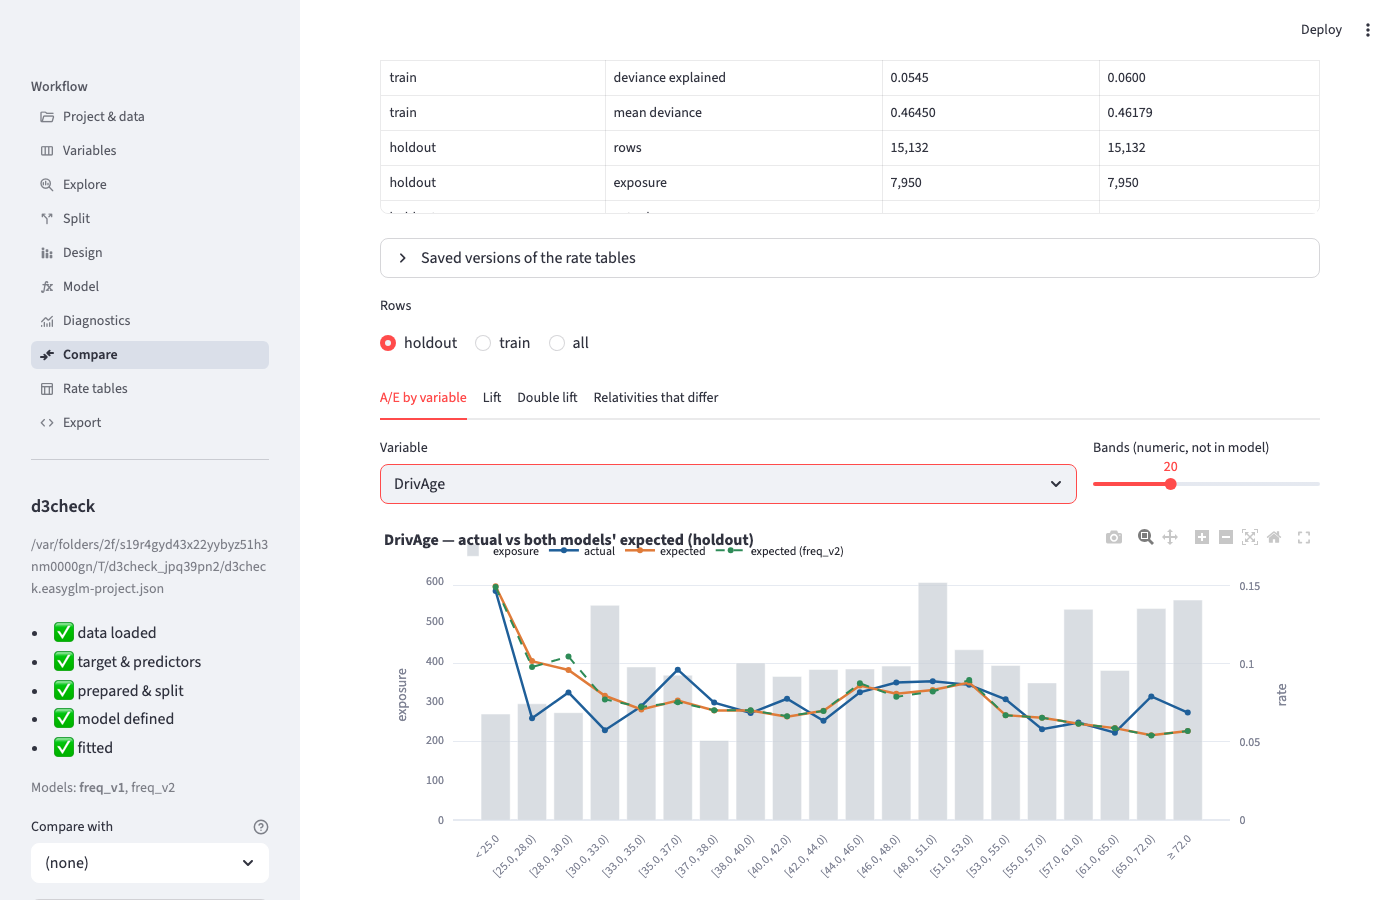
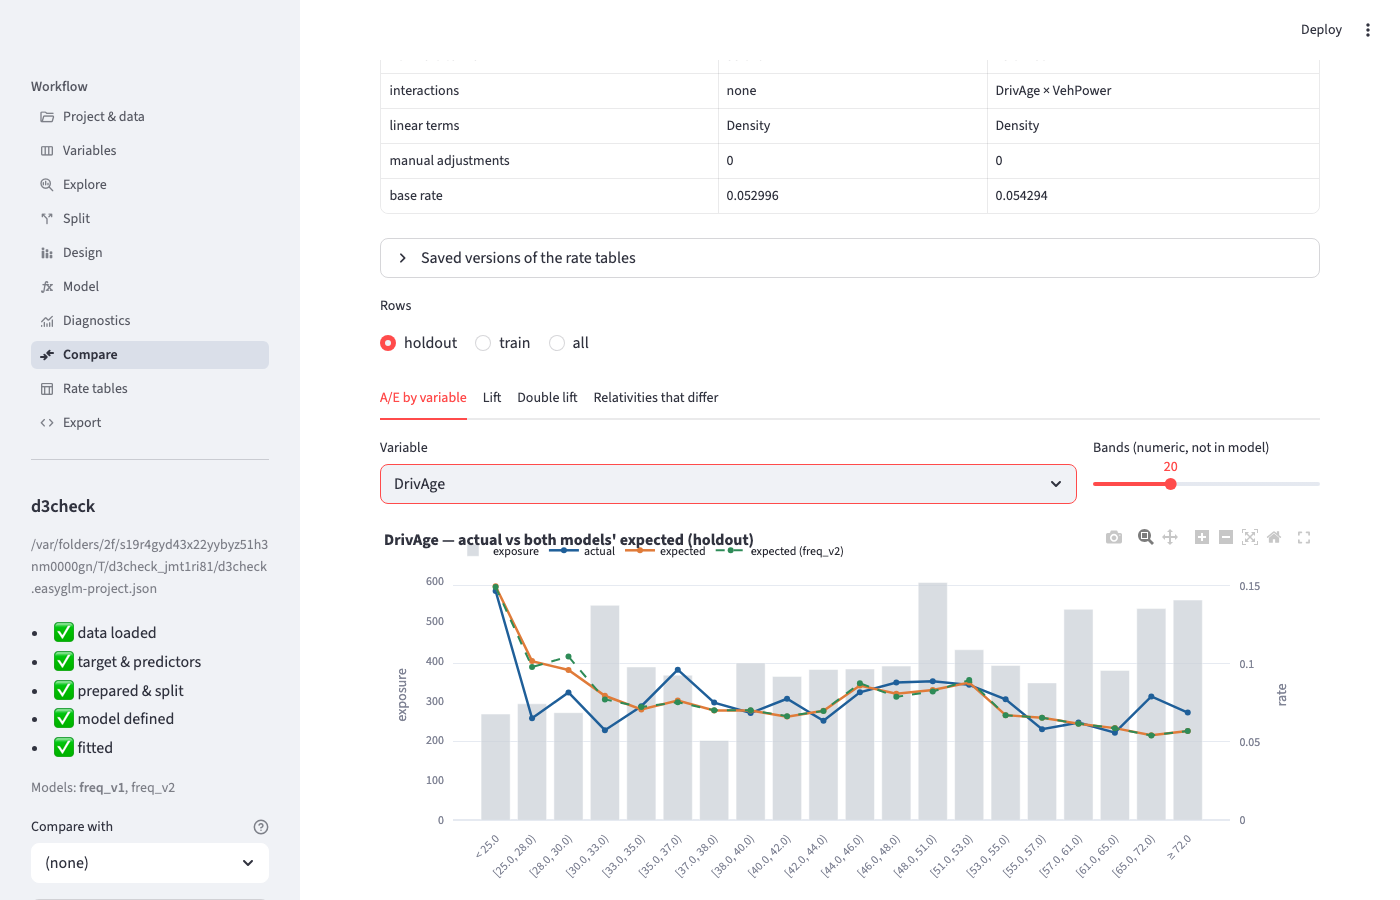
review B1/S8/S9: the check document now describes the models it actually builds
**B1 (blocking).** `DesignConfig` lives on the `Project`, not on a model, so
the check script's `{"design": {"variables": {"Density": {"kind": "linear"}}}}`
made Density piecewise-linear in *both* models — while the document told the
owner that Density was "banded in one and linear in the other" and pointed him
at an *only in* row that was not in the table. Since he cannot read the code,
that page is the whole specification of the feature, and the more damaging
reading was that a factor represented differently in the two models is safely
reported. The prose now says what is built (both models share the linear
Density design; the DrivAge × VehPower interaction is the only structural
difference), the *only in* example is the interaction, and the moved-knot
bullet describes the new common-grid behaviour with the one row it actually
produces. Regenerated with `--write`.

Also from B1: the metrics screenshot was cut off at the last *train* row while
the paragraph beside it says "holdout first" — both screenshots are now
anchored on the right element, and the reshaped table (S7) fits whole. The
worked example quotes the fixture's real numbers (level +2.4 %, largest band
−8.9 %, premium −6.7 %) and N16's sentence is in: a band's premium change is
its relativity change times the level change.

**S8.** README and CHANGELOG said "about 250 kB"; the French-motor report is
345–400 kB. Corrected.

**S9.** D4 also asks for the report "from the CLI". That is genuinely
[…]

diff --git a/scripts/checks/d3_d4_compare_report.py b/scripts/checks/d3_d4_compare_report.py
@@ -157,10 +157,11 @@ def _screens(out: Path) -> tuple[bool, str]:
 DOC_TEXT = """# D3 / D4 — comparing two models, and the report you can send
 
 *French-motor fixture (50,000 policies, 70/30 random split). Two frequency
-models on the same six factors: `freq_v1` uses plain banded (step) terms;
-`freq_v2` adds a DrivAge × VehPower interaction and treats Density as a
-straight line in log space; the report shown here is `freq_v2`'s, with `freq_v1`
-as its challenger. Screenshots regenerated by
+models on the same six factors, both treating Density as a straight line in log
+space (the band design belongs to the project, so every model shares it);
+`freq_v2` adds a DrivAge × VehPower interaction, which is the only structural
+difference between them. The report shown here is `freq_v2`'s, with `freq_v1` as
+its challenger. Screenshots regenerated by
 `scripts/checks/d3_d4_compare_report.py --write`.*
 
 ## Why this exists
@@ -241,18 +242,30 @@ counts as a move.
   sixth decimal; 1 % is the level at which a difference is worth a sentence.
   Raise it to 0.05 to see only the changes that would move a premium
   noticeably.
-* **Bands are matched by their label** — the same `[28.0, 30.0)` you see on the
-  rate table. If the challenger's knots moved, its bands do not line up with
-  the champion's, and the table says *band only in freq_v1* / *band only in
-  freq_v2* rather than inventing a comparison. That is the honest answer: the
-  two models cut the factor differently and their relativities are not
-  comparable band by band.
-* A factor one model has and the other does not (here Density is linear in one
-  and banded in the other, and the interaction exists only in `freq_v2`) is
-  listed once as *only in …*.
-* **`(base rate)`** is compared too. Two models can have identical relativities
-  and still charge different premiums because their base rate differs; that row
-  is the overall level.
+* **Numeric factors are compared on a common grid.** For an age or a density
+  the tool takes the union of both models' band edges and evaluates both rate
+  structures on it. That means a challenger whose knots moved — or that treats
+  the factor as a straight line while the champion bands it — is still compared
+  like for like, band of the common grid by band of the common grid. Move one
+  knot from 28 to 28.5 and you get **one** row, `[28.0, 28.5)`: exactly the
+  ages that would be charged differently, not four rows of bands that do not
+  line up. When the two models represent a factor differently the `kind` column
+  says so (`numeric → linear`), so no row can be mistaken for two designs that
+  agree.
+* **Levels and interaction cells are matched by name** — `Alsace`, or
+  `[28.0, 30.0) | [7.0, 8.0)`. A level or a cell only one model has is listed as
+  *band only in …*.
+* A whole factor one model has and the other does not (here the
+  DrivAge × VehPower interaction, which exists only in `freq_v2`) is listed once
+  as *only in …*.
+* **The overall level is shown on its own, above the table.** Two models can
+  have identical relativities and still charge different premiums because their
+  base rate differs, so the base rate is reported both as a headline
+  ("Overall level (base rate): +2.4 %") and as a row of the table. **A band's
+  premium change is its relativity change multiplied by the level change** — in
+  this fixture the level is **+2.4 %** while the largest band move is
+  **−8.9 %** (DrivAge `[28.0, 30.0)`), so the premium for those drivers falls
+  by about **6.7 %**, not 8.9 %. Read the two together.
 
 Two identical models give an **empty** table — that is the test, and it is what
 you should see if you compare a model with itself.
@@ -289,7 +302,9 @@ What is in it:
 
 * **Lift and Gini** on both sets of rows.
 * **The comparison section**, when a challenger was chosen: the double lift and
-  the same relativity-difference table.
+  the same relativity-difference table, with the overall level above it. If the
+  challenger cannot be scored on these rows (a column it needs is gone) the
+  report says so in that section's place rather than quietly leaving it out.
 
 ![report comparison](img/d4_report_compare.png)
 
@@ -304,7 +319,12 @@ of five megabytes. Hovering a band or a heatmap cell still shows its numbers.
 ## What was checked
 
 * Two identical models produce an empty difference table; a single edited
-  relativity produces exactly one row, with the right size of change.
+  relativity produces exactly one row, with the right size of change; two bands
+  both floored to zero are not a change.
+* Moving one knot produces exactly the sliver of the factor that would be
+  charged differently; the same factor banded in one model and straight in the
+  other is compared on the common grid and labelled `numeric → linear`.
+* Swapping champion and challenger swaps every status and negates every number.
 * A model with a factor the other does not have lists that factor once.
 * The report contains no link to anything outside itself, opens in a browser
   with no errors, has one section per rating factor, and only carries the
@@ -314,18 +334,21 @@ of five megabytes. Hovering a band or a heatmap cell still shows its numbers.
 
 1. **Tolerance.** The difference table defaults to 1 % (|log ratio| > 0.01).
    Is that the level at which you would want a band listed, or would you rather
-   start at 5 % and drill down?
-2. **Base rate row.** We list the base rate as a row of the difference table so
-   a pure level change cannot hide. Would you rather see it as a separate
-   headline ("overall level: +2.4 %")?
+   start at 5 % and drill down? The box on the page changes it in one keystroke,
+   so this is only about the default.
+2. **The overall level.** It is now shown both ways — as the headline above the
+   table and as a `(base rate)` row inside it. Is the headline wording right, or
+   would you rather see the *premium* change per band (relativity × level)
+   worked out for you in a column of its own?
 3. **Report audience.** The report currently leads with the data and the model
    configuration and puts the coefficients in an appendix. For a filing, would
    you want a one-page summary at the front (headline metrics, the rate tables,
    nothing else) with everything else after it?
-4. **Moved knots.** When the challenger's bands do not line up with the
-   champion's we refuse to compare them and say so. The alternative is to
-   compare the two curves at a set of common points (say every band edge of
-   either model). Which would you rather have?
+4. **The common grid.** Numeric factors are compared on the union of both
+   models' band edges, so a moved knot shows the exact range of ages (or
+   densities) that would be charged differently. For a piecewise-linear term we
+   read each interval at its **start**. Is that the number you would want, or
+   the exposure-weighted average across the interval?
 """
 
 

diff --git a/scripts/checks/_d3_screens.py b/scripts/checks/_d3_screens.py
@@ -79,14 +79,17 @@ with sync_playwright() as p:
     # -- Compare page
     nav(pg, "Compare")
     main = pg.locator('[data-testid="stMain"]')
-    shot(pg, "d3_compare_metrics")
+    # anchor on the metrics table so the holdout rows are in frame, not cut off
+    shot(pg, "d3_compare_metrics", pg.get_by_text("Metrics side by side").first)
     pg.get_by_role("tab", name="A/E by variable", exact=True).click()
     settle(pg)
     select(pg, "Variable", "DrivAge")
     shot(pg, "d3_compare_ae", pg.locator(".js-plotly-plot").first)
     pg.get_by_role("tab", name="Relativities that differ", exact=True).click()
     settle(pg)
-    shot(pg, "d3_compare_diff", pg.get_by_test_id("stDataFrame").first)
+    # anchor on the tolerance box so the headline, the caption and the table
+    # are all in frame (there are three grids on the page now)
+    shot(pg, "d3_compare_diff", pg.get_by_text("Report a band when").first)
     assert "row(s)" in main.inner_text(), main.inner_text()[:400]
 
     # -- the report, downloaded from the Export page and opened in the browser

diff --git a/docs/checks/d3-d4-compare-report.md b/docs/checks/d3-d4-compare-report.md
@@ -1,10 +1,11 @@
 # D3 / D4 — comparing two models, and the report you can send
 
 *French-motor fixture (50,000 policies, 70/30 random split). Two frequency
-models on the same six factors: `freq_v1` uses plain banded (step) terms;
-`freq_v2` adds a DrivAge × VehPower interaction and treats Density as a
-straight line in log space; the report shown here is `freq_v2`'s, with `freq_v1`
-as its challenger. Screenshots regenerated by
+models on the same six factors, both treating Density as a straight line in log
+space (the band design belongs to the project, so every model shares it);
+`freq_v2` adds a DrivAge × VehPower interaction, which is the only structural
+difference between them. The report shown here is `freq_v2`'s, with `freq_v1` as
+its challenger. Screenshots regenerated by
 `scripts/checks/d3_d4_compare_report.py --write`.*
 
 ## Why this exists
@@ -85,18 +86,30 @@ counts as a move.
   sixth decimal; 1 % is the level at which a difference is worth a sentence.
   Raise it to 0.05 to see only the changes that would move a premium
   noticeably.
-* **Bands are matched by their label** — the same `[28.0, 30.0)` you see on the
-  rate table. If the challenger's knots moved, its bands do not line up with
-  the champion's, and the table says *band only in freq_v1* / *band only in
-  freq_v2* rather than inventing a comparison. That is the honest answer: the
-  two models cut the factor differently and their relativities are not
-  comparable band by band.
-* A factor one model has and the other does not (here Density is linear in one
-  and banded in the other, and the interaction exists only in `freq_v2`) is
-  listed once as *only in …*.
-* **`(base rate)`** is compared too. Two models can have identical relativities
-  and still charge different premiums because their base rate differs; that row
-  is the overall level.
+* **Numeric factors are compared on a common grid.** For an age or a density
+  the tool takes the union of both models' band edges and evaluates both rate
+  structures on it. That means a challenger whose knots moved — or that treats
+  the factor as a straight line while the champion bands it — is still compared
+  like for like, band of the common grid by band of the common grid. Move one
+  knot from 28 to 28.5 and you get **one** row, `[28.0, 28.5)`: exactly the
+  ages that would be charged differently, not four rows of bands that do not
+  line up. When the two models represent a factor differently the `kind` column
+  says so (`numeric → linear`), so no row can be mistaken for two designs that
+  agree.
+* **Levels and interaction cells are matched by name** — `Alsace`, or
+  `[28.0, 30.0) | [7.0, 8.0)`. A level or a cell only one model has is listed as
+  *band only in …*.
+* A whole factor one model has and the other does not (here the
+  DrivAge × VehPower interaction, which exists only in `freq_v2`) is listed once
+  as *only in …*.
+* **The overall level is shown on its own, above the table.** Two models can
+  have identical relativities and still charge different premiums because their
+  base rate differs, so the base rate is reported both as a headline
+  ("Overall level (base rate): +2.4 %") and as a row of the table. **A band's
+  premium change is its relativity change multiplied by the level change** — in
+  this fixture the level is **+2.4 %** while the largest band move is
+  **−8.9 %** (DrivAge `[28.0, 30.0)`), so the premium for those drivers falls
+  by about **6.7 %**, not 8.9 %. Read the two together.
 
 Two identical models give an **empty** table — that is the test, and it is what
 you should see if you compare a model with itself.
@@ -133,7 +146,9 @@ What is in it:
 
 * **Lift and Gini** on both sets of rows.
 * **The comparison section**, when a challenger was chosen: the double lift and
-  the same relativity-difference table.
+  the same relativity-difference table, with the overall level above it. If the
+  challenger cannot be scored on these rows (a column it needs is gone) the
+  report says so in that section's place rather than quietly leaving it out.
 
 ![report comparison](img/d4_report_compare.png)
 
@@ -148,7 +163,12 @@ of five megabytes. Hovering a band or a heatmap cell still shows its numbers.
 ## What was checked
 
 * Two identical models produce an empty difference table; a single edited
-  relativity produces exactly one row, with the right size of change.
+  relativity produces exactly one row, with the right size of change; two bands
+  both floored to zero are not a change.
+* Moving one knot produces exactly the sliver of the factor that would be
+  charged differently; the same factor banded in one model and straight in the
+  other is compared on the common grid and labelled `numeric → linear`.
+* Swapping champion and challenger swaps every status and negates every number.
 * A model with a factor the other does not have lists that factor once.
 * The report contains no link to anything outside itself, opens in a browser
   with no errors, has one section per rating factor, and only carries the
@@ -158,15 +178,18 @@ of five megabytes. Hovering a band or a heatmap cell still shows its numbers.
 
 1. **Tolerance.** The difference table defaults to 1 % (|log ratio| > 0.01).
    Is that the level at which you would want a band listed, or would you rather
-   start at 5 % and drill down?
-2. **Base rate row.** We list the base rate as a row of the difference table so
-   a pure level change cannot hide. Would you rather see it as a separate
-   headline ("overall level: +2.4 %")?
+   start at 5 % and drill down? The box on the page changes it in one keystroke,
+   so this is only about the default.
+2. **The overall level.** It is now shown both ways — as the headline above the
+   table and as a `(base rate)` row inside it. Is the headline wording right, or
+   would you rather see the *premium* change per band (relativity × level)
+   worked out for you in a column of its own?
 3. **Report audience.** The report currently leads with the data and the model
    configuration and puts the coefficients in an appendix. For a filing, would
    you want a one-page summary at the front (headline metrics, the rate tables,
    nothing else) with everything else after it?
-4. **Moved knots.** When the challenger's bands do not line up with the
-   champion's we refuse to compare them and say so. The alternative is to
-   compare the two curves at a set of common points (say every band edge of
-   either model). Which would you rather have?
+4. **The common grid.** Numeric factors are compared on the union of both
+   models' band edges, so a moved knot shows the exact range of ages (or
+   densities) that would be charged differently. For a piecewise-linear term we
+   read each interval at its **start**. Is that the number you would want, or
+   the exposure-weighted average across the interval?

diff --git a/AGENTS.md b/AGENTS.md
@@ -110,6 +110,7 @@ src/easy_glm/
 │   ├── export.py           # to_script (self-contained Python; tested by execution)
 │   ├── report.py           # to_report_html — ONE self-contained HTML file
 │   └── _svg.py             # the report's charts as plain SVG (no JS, no library)
+│                           #   every chart carries a <title> = its accessible name
 ├── app/                    # Streamlit workbench (thin views over workflow + state)
 │   ├── main.py             # st.navigation entry; --project=path
 │   ├── state.py            # session Project, hash-keyed caches (raw/prepared/runs/leakage), autosave
@@ -237,6 +238,13 @@ User edits relativity in table
   when the pickle is corrupt or its design no longer matches *readable* data — data
   that cannot be read right now is a miss that keeps the fit;
   adjustments/base-rate override are re-applied from the project on load.
+- Comparing two models: `relativity_diff` puts **numeric and piecewise-linear**
+  factors on the union of both models' band edges (so a moved knot, or a factor
+  banded in one model and straight in the other, is still compared like for like)
+  and matches **categorical levels and interaction cells by label**. Identical
+  values are never a change, zeros included. The base rate is both a row of the
+  table and, through `base_rate_change`, the headline above it — a band's premium
+  change is its relativity change times the level change.
 - Champion vs challenger: the sidebar (`main.py`) owns one "compare with" model in
   `state.CHALLENGER_KEY` (`S.challenger()` / `S.set_challenger()`; not an app-state
   key, so another project never inherits it). Diagnostics, Rate tables, Compare and
@@ -291,7 +299,7 @@ User edits relativity in table
 | `test_c1_foundations.py` | 0.3 bug regressions, format versions and migrations, editor defaults |
 | `test_scoring.py` | Isolated scoring: score_numeric (searchsorted), score_categorical (dict lookup), edge cases, fallbacks |
 | `test_workflow.py` | Project JSON/validation, prep steps, univariate, leakage report on planted leaks, build_design overrides, run_model (metrics, exactness, adjustments, CV), diagnostics, exported script executed in a subprocess and compared |
-| `test_d3_d4_compare_report.py` | D3/D4: `relativity_diff` (identical runs, one known adjustment, moved knots, a variable only one model has, the base rate, the tolerance), `to_report_html` (self-contained, one section per predictor, compare section only with a challenger, size, headless render), the Compare page / sidebar challenger / Export report button through AppTest |
+| `test_d3_d4_compare_report.py` | D3/D4: `relativity_diff` (identical runs, one known adjustment, a moved knot on the common grid, step-vs-linear, symmetry, the base rate, the tolerance boundary, two zeros), `to_report_html` (self-contained, **no `<script>` at all**, one section per predictor, an accessible name per chart, compare section only with a challenger — and an explanation when the challenger cannot be scored, size), `_svg` (ticks, degenerate charts, escaping), the Compare page / sidebar challenger / Export report button through AppTest. **D4's "opens in a browser with no console error"**: the static half (no script, no external `src`/`href`) is proved here on every run; the browser half is `test_it_opens_in_a_headless_browser_without_console_errors`, which *skips* where Playwright is absent (the default venv) and runs in the Playwright venv and in `tests/e2e/test_persona_data_scientist.py` — CI must run one of those two for the criterion to be covered |
 | `test_w2_pages.py` | W2 pages: interaction section, linear editor, kind selector, A/E-by-pair, pair search, cell/band edits via `app.grids`, break-it (empty project, missing file, removed predictor) |
 | `tests/e2e/` | Playwright persona runs (actuary rate review, data-scientist comparison incl. the Compare page and the downloaded HTML report); opt-in `EASY_GLM_E2E=1`, server from `EASY_GLM_SERVER_PYTHON` |
 | `test_app.py` | AppTest: every workbench page renders (with and without a fit), main entry point, leakage scan action |

diff --git a/CHANGELOG.md b/CHANGELOG.md
@@ -19,10 +19,16 @@
   editable on the page), on the log scale so `+0.10` reads as "the challenger
   charges about 10 % more for that band". Interactions are compared cell by cell,
   piecewise-linear terms by their band-start values, and the base rates against
-  each other. Bands are matched by their rate-table label, so a model whose knots
-  or levels moved gets *band only in …* rows rather than invented comparisons;
-  a factor only one model has is listed once. Two identical models give an empty
-  table. `workflow.describe_diff` puts the statuses into words for a page.
+  each other — the overall level change is also shown on its own line above the
+  table (`workflow.base_rate_change`), because a band's premium change is its
+  relativity change multiplied by it. **Numeric factors are compared on the
+  union of both models' band edges**, so a moved knot reports exactly the range
+  of ages that would be charged differently, and the same factor banded in one
+  model and a straight line in the other is still compared like for like (the
+  `kind` column then reads `numeric → linear`); levels and interaction cells are
+  matched by name, and a factor only one model has is listed once. Two identical
+  models — or two bands both floored to the same value, zero included — give an
+  empty table. `workflow.describe_diff` puts the statuses into words for a page.
 - **One self-contained HTML report.** `workflow.to_report_html(project, runs, df,
   champion=..., challenger=...)` and a **Download HTML report** button on the
   Export page: a single file — summary (data, split, metrics), one block per
@@ -31,9 +37,16 @@
   challenger is chosen, every coefficient and the exported Python script in an
   appendix, with the generation time and library versions. Nothing is fetched
   from the internet when it is opened: the charts are written as plain SVG
-  (`workflow/_svg.py`), which keeps the French-motor report around 250 kB
-  instead of the 4.8 MB an inlined charting library would cost, and means it
-  cannot produce a browser error.
+  (`workflow/_svg.py`) with a `<title>` naming each one, which keeps the
+  French-motor report at 350–400 kB instead of the 4.8 MB an inlined charting
+  library would cost, and means the file contains no JavaScript and so cannot
+  produce a browser error. A challenger the report cannot score on these rows
+  is explained in the comparison section's place, never silently dropped.
+- **Known limitation.** D4 asks for the report "from the Export page *and the
+  CLI*". Only the Export page (and `workflow.to_report_html` for scripts) ships
+  here — there is no `easy-glm` console script yet, so the CLI half of D4 lands
+  with workstream F (`easy-glm run project.json`) and must not be forgotten when
+  0.4.0 is cut.
 - Tests: `tests/test_d3_d4_compare_report.py` (the diff on hand-made
   differences, the report's self-containment / one section per predictor /
   compare-section-only-with-a-challenger / size / headless render, and the pages

diff --git a/README.md b/README.md
@@ -213,9 +213,9 @@ against each other; two identical models give an empty table
 page writes the whole model up as **one self-contained file** — summary and split, a
 block per rating factor with its relativities and its actual-vs-expected on train and
 holdout, interaction heatmaps, lift and Gini, the comparison section, every coefficient
-and the reproducing Python script — about 250 kB, nothing fetched from the internet
-when it is opened, so it can be emailed or attached to a filing
-(`workflow.to_report_html`).
+and the reproducing Python script — a few hundred kB (350–400 kB for the French
+motor set), nothing fetched from the internet when it is opened, so it can be
+emailed or attached to a filing (`workflow.to_report_html`).
 
 ---
 
